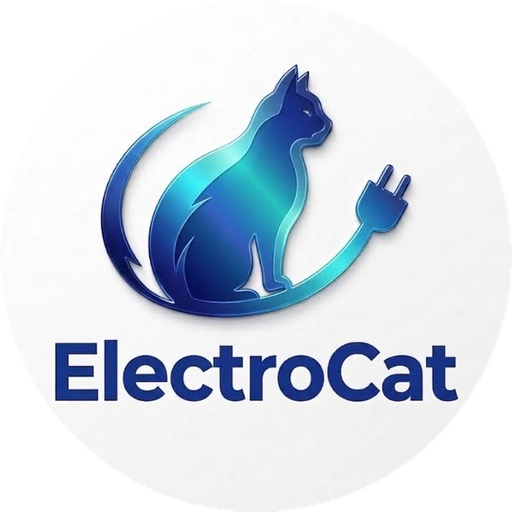
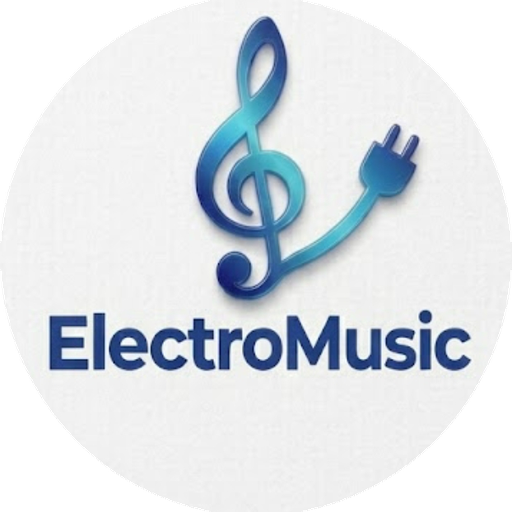
Add files via upload

Changed region(s): [[0.0938, 0.0312, 0.9375, 0.8125]]

diff --git a/ecm-index.html b/ecm-index.html
@@ -4,7 +4,7 @@
 <meta charset="utf-8">
 <meta name="viewport" content="width=device-width, initial-scale=1, viewport-fit=cover">
 <meta name="theme-color" content="#0d1224">
-<title>ElectroCat Music</title>
+<title>ElectroMusic</title>
 <style>
 :root{--bg:#0d1224;--card:#161e3a;--ink:#eef2ff;--mut:#98a2c8;--ac:#3aa0ff;--line:#27315c;box-sizing:border-box;padding-top:env(safe-area-inset-top,0px)}
 *{box-sizing:border-box}
@@ -86,7 +86,7 @@ function nextSong(auto){if(!QUEUE.length)return;if(REP==2&&auto){AUD.currentTime
   start()}
 function prev(){if(!QUEUE.length)return;if(AUD.currentTime>3){AUD.currentTime=0;return}qi=qi>0?qi-1:QUEUE.length-1;start()}
 function toggle(){if(!CUR)return;if(AUD.paused)AUD.play();else AUD.pause()}
-function media(){if("mediaSession"in navigator){try{navigator.mediaSession.metadata=new MediaMetadata({title:CUR.name,artist:CUR.artist||"ElectroCat Music"});const h=(a,f)=>navigator.mediaSession.setActionHandler(a,f);h("play",toggle);h("pause",toggle);h("nexttrack",()=>nextSong(false));h("previoustrack",prev)}catch(e){}}}
+function media(){if("mediaSession"in navigator){try{navigator.mediaSession.metadata=new MediaMetadata({title:CUR.name,artist:CUR.artist||"ElectroMusic"});const h=(a,f)=>navigator.mediaSession.setActionHandler(a,f);h("play",toggle);h("pause",toggle);h("nexttrack",()=>nextSong(false));h("previoustrack",prev)}catch(e){}}}
 function tick(){const k=$("pk");if(k&&!SEEK){k.max=AUD.duration||0;k.value=AUD.currentTime}const t=$("pt");if(t)t.textContent=fmt(AUD.currentTime);const d=$("pd");if(d)d.textContent=fmt(AUD.duration)}
 AUD.addEventListener("play",()=>{lk(true);upd()});AUD.addEventListener("pause",()=>{lk(false);upd()});
 AUD.addEventListener("ended",()=>nextSong(true));AUD.addEventListener("timeupdate",tick);AUD.addEventListener("loadedmetadata",tick);
@@ -134,7 +134,7 @@ function songRow(x,play,plus,rm){return`<div class="sg${CUR&&CUR.id==x.id?" cur"
 function songList(){const l=filt();if(!l.length)return`<p class="mut pad">${SONGS.length?"No match.":"No music found on this phone."}</p>`;return l.slice(0,400).map(x=>songRow(x,`playFrom('${x.id}')`,true)).join("")+(l.length>400?'<p class="mut pad">Showing the first 400. Search to find the rest.</p>':"")}
 function vSongs(){
   if(ST=="scanning")return'<p class="mut pad">Looking for music on your phone…</p>';
-  if(ST=="denied")return`<div class="card"><p>Music access is off. Allow it so the app can find the songs on your phone.</p><button onclick="scan()">Allow music access</button><p class="mut" style="margin:10px 0 0">If nothing happens, open Android Settings → Apps → ElectroCat Music → Permissions → Music and audio.</p></div>`;
+  if(ST=="denied")return`<div class="card"><p>Music access is off. Allow it so the app can find the songs on your phone.</p><button onclick="scan()">Allow music access</button><p class="mut" style="margin:10px 0 0">If nothing happens, open Android Settings → Apps → ElectroMusic → Permissions → Music and audio.</p></div>`;
   if(ST=="web")return`<div class="card"><p>This is the browser preview. On an Android phone the app finds your music by itself. Here you can pick files to try the player.</p><input id="wf" type="file" accept="audio/*" multiple style="display:none" onchange="webFiles(this.files)"><button onclick="$('wf').click()">Pick music files</button></div>`;
   return`<input id="q" placeholder="Search songs" value="${esc(Q)}" oninput="Q=this.value;$('sl').innerHTML=songList()"><div id="sl">${songList()}</div>`}
 function vPls(){
@@ -144,7 +144,7 @@ function vPls(){
 function setTab(t){if(OPL){OPL=null;pop("pl",true)}TAB=t;render()}
 function render(){
   const y=scrollY;
-  $("app").innerHTML=`<div class="hd"><div class="g"><h1>ElectroCat Music</h1><div class="mut">${ST=="ok"?SONGS.length+" songs":""}</div></div>${NATIVE?'<button class="ic" onclick="scan()" aria-label="Refresh music list">⟳</button>':""}</div><div class="tabs"><button class="${TAB=="songs"?"on":""}" onclick="setTab(\'songs\')">Songs</button><button class="${TAB=="pls"?"on":""}" onclick="setTab(\'pls\')">Playlists</button></div>${TAB=="songs"?vSongs():vPls()}`;
+  $("app").innerHTML=`<div class="hd"><div class="g"><h1>ElectroMusic</h1><div class="mut">${ST=="ok"?SONGS.length+" songs":""}</div></div>${NATIVE?'<button class="ic" onclick="scan()" aria-label="Refresh music list">⟳</button>':""}</div><div class="tabs"><button class="${TAB=="songs"?"on":""}" onclick="setTab(\'songs\')">Songs</button><button class="${TAB=="pls"?"on":""}" onclick="setTab(\'pls\')">Playlists</button></div>${TAB=="songs"?vSongs():vPls()}`;
   scrollTo(0,y);upd()}
 try{history.replaceState({n:"root"},"")}catch(e){}
 render();if(NATIVE)scan();
